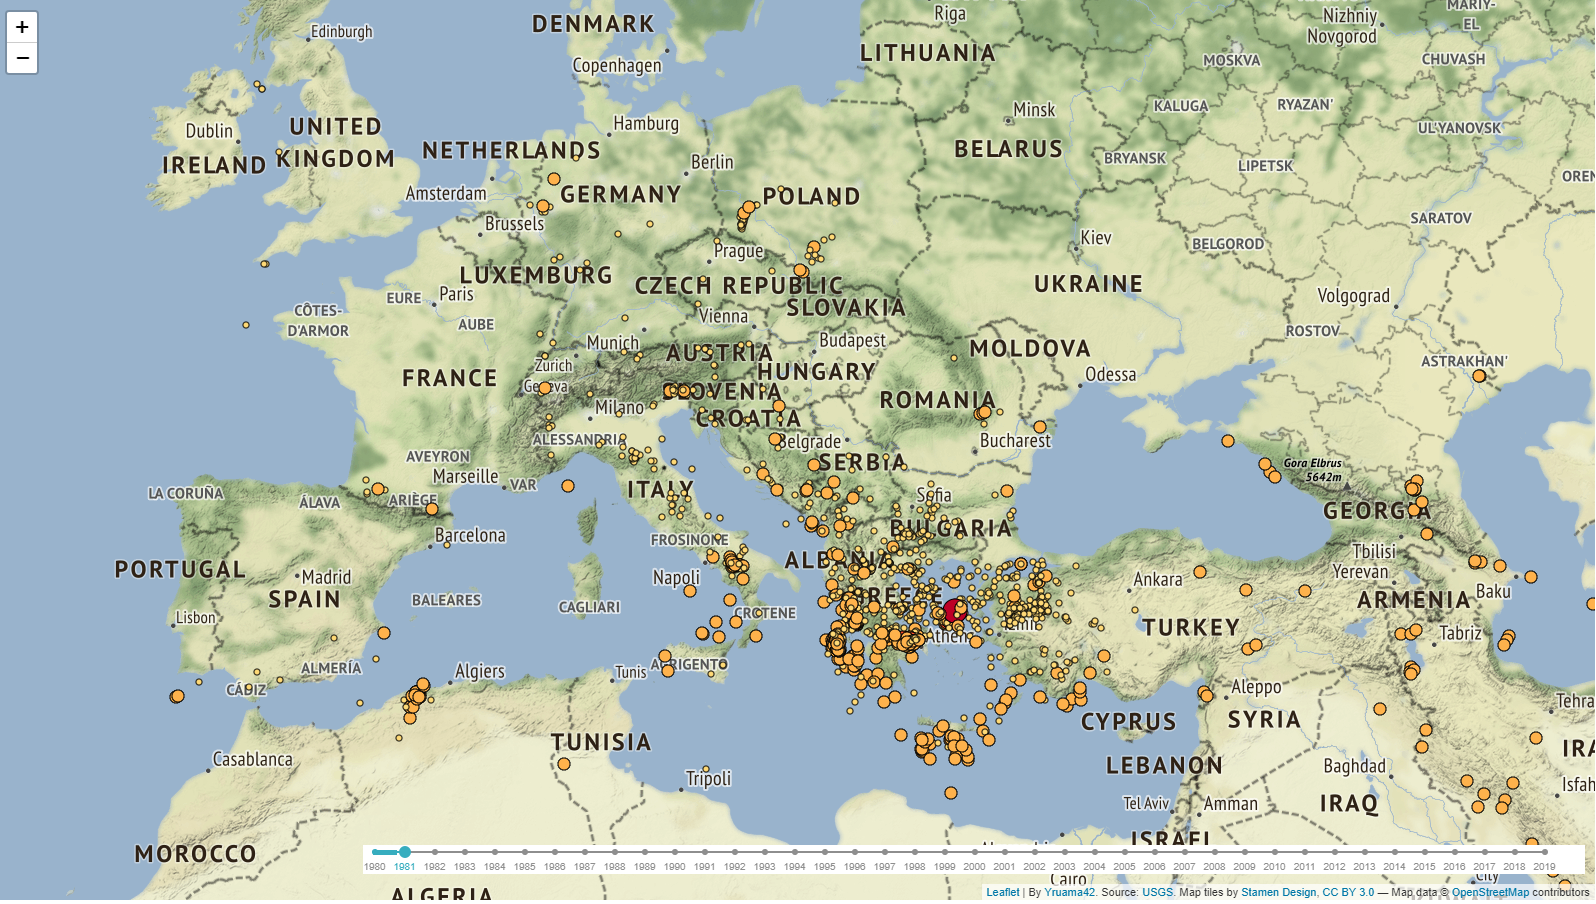
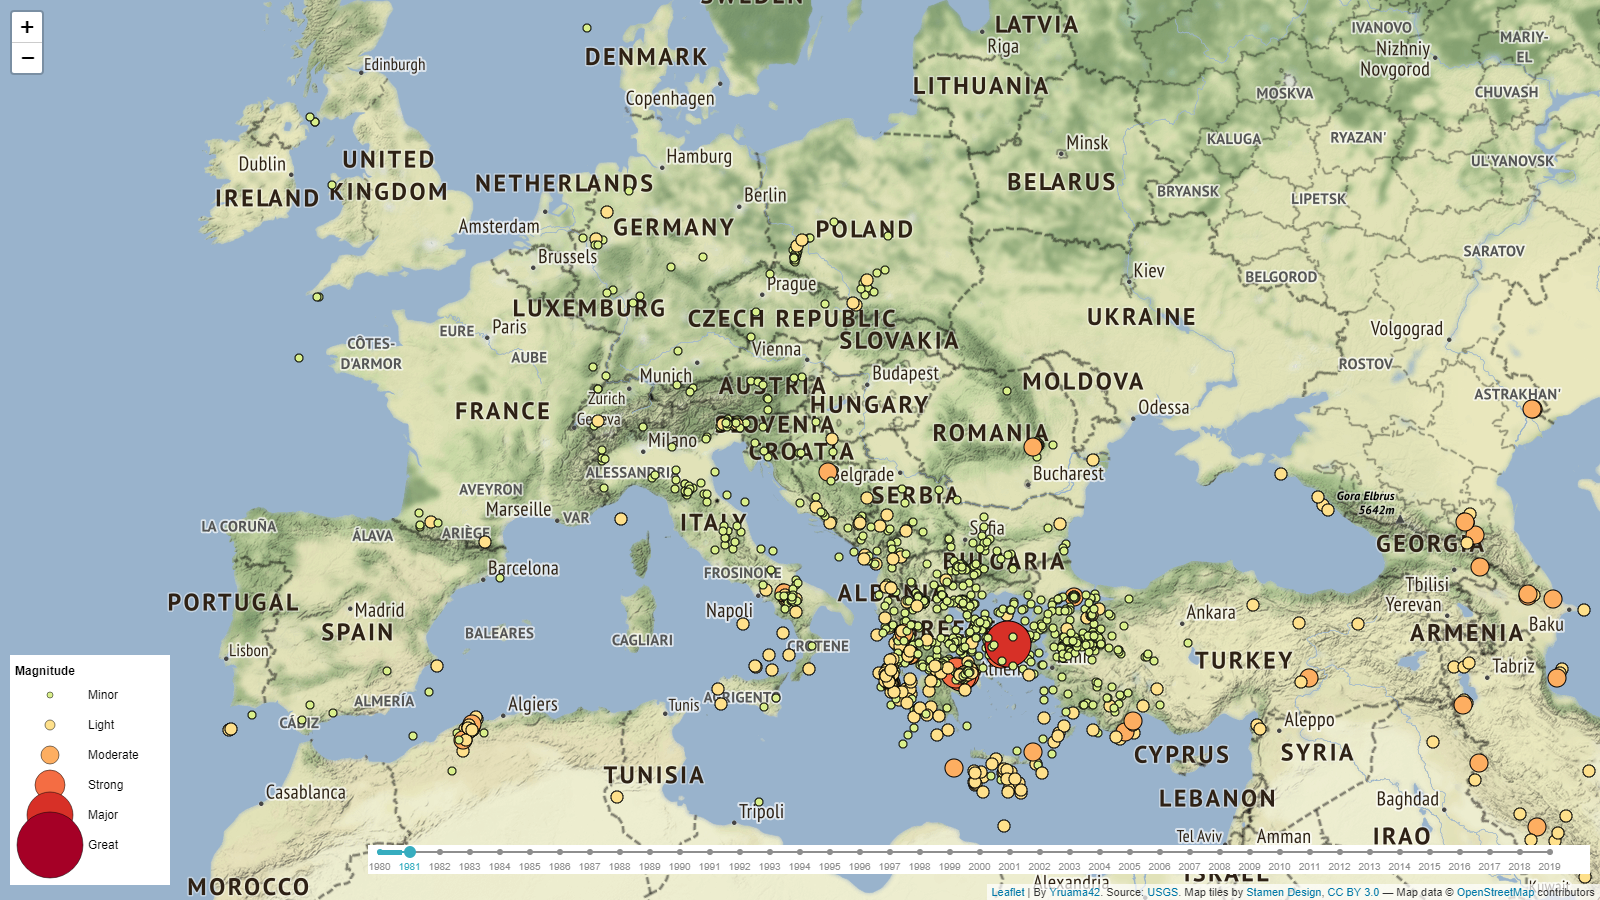
upd (index.html) reset mapbackground

diff --git a/index.html b/index.html
@@ -25,7 +25,7 @@
 		}
 	).setView([46.505954, 7.108154], 6);
 
-	var background_map = L.tileLayer('https://stamen-tiles-{s}.a.ssl.fastly.net/toner/{z}/{x}/{y}{r}.png', {
+	var background_map = L.tileLayer('https://stamen-tiles-{s}.a.ssl.fastly.net/terrain/{z}/{x}/{y}{r}.png', {
 		attribution: 'By <a href="https://github.com/yruama42/USGS_Earthquake_viewer">Yruama42</a>. Source: <a href="https://earthquake.usgs.gov/fdsnws/event/1/">USGS</a>. Map tiles by <a href="http://stamen.com">Stamen Design</a>, <a href="http://creativecommons.org/licenses/by/3.0">CC BY 3.0</a> &mdash; Map data &copy; <a href="https://www.openstreetmap.org/copyright">OpenStreetMap</a> contributors',
 		subdomains: 'abcd',
 		minZoom: 0,
